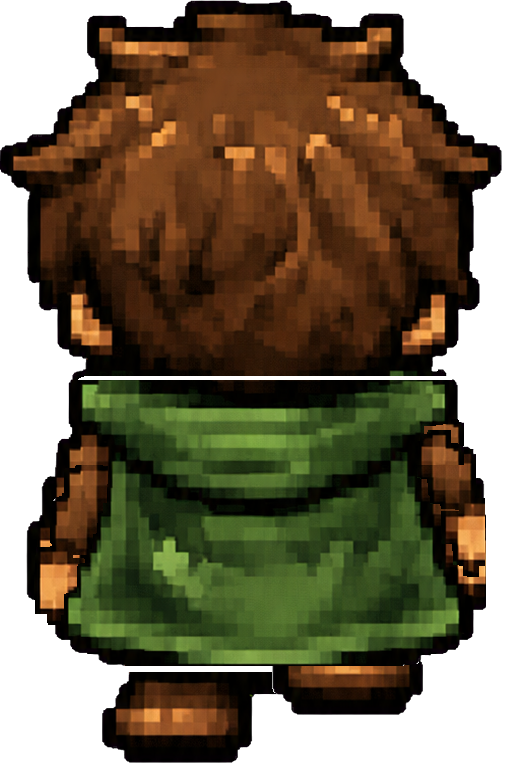
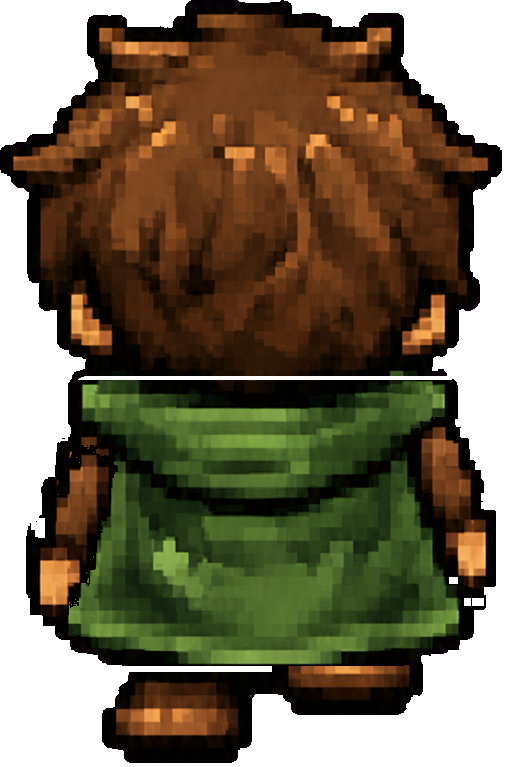
Repair walk-up sprite pixels

diff --git a/js/screens.js b/js/screens.js
@@ -126,7 +126,7 @@ function easeOutBounce(x) {
 // top, bounces to a stop with a little screen-shake + thud, a shine sweeps
 // across it, then the rest of the screen fades in.
 // build stamp — bump this to the deploy time (Arizona/Phoenix time) on each update
-const BUILD_STAMP = '7/25/2026 5:28pm (mst)';
+const BUILD_STAMP = '7/25/2026 5:38pm (mst)';
 
 const ScreenTitle = {
   FALL: 0.85, SHINE_DELAY: 0.12, SHINE_DUR: 0.6,

diff --git a/scripts/fix_player_walk_up.py b/scripts/fix_player_walk_up.py
@@ -2,7 +2,7 @@ from pathlib import Path
 from shutil import copy2
 from collections import deque
 
-from PIL import Image
+from PIL import Image, ImageFilter
 
 
 ROOT = Path(__file__).resolve().parents[1]
@@ -58,6 +58,122 @@ def replace_stationary_head(frame, idle, dx, dy):
     return result
 
 
+def arm_mask(image, box):
+    """Select arm/hand colors plus their dark outline, excluding green cape."""
+    x0, y0, x1, y1 = box
+    crop = image.crop(box)
+    seed = Image.new("L", crop.size)
+    seed_pixels = seed.load()
+    source = crop.load()
+    for y in range(crop.height):
+        for x in range(crop.width):
+            red, green, blue, alpha = source[x, y]
+            if (
+                alpha >= 32
+                and red >= 45
+                and red > green * 1.10
+                and red > blue * 1.14
+            ):
+                seed_pixels[x, y] = 255
+
+    nearby = seed.filter(ImageFilter.MaxFilter(21))
+    near_pixels = nearby.load()
+    mask = Image.new("L", crop.size)
+    mask_pixels = mask.load()
+    for y in range(crop.height):
+        for x in range(crop.width):
+            red, green, blue, alpha = source[x, y]
+            is_arm_or_outline = (
+                near_pixels[x, y]
+                and alpha > 0
+                and not (green > red * 1.18 and green > blue * 1.12)
+            )
+            if seed_pixels[x, y] or is_arm_or_outline:
+                mask_pixels[x, y] = alpha
+    return mask
+
+
+def replace_generated_arms(frame, idle, cape_dx, left_dy, right_dy):
+    """Use the clean idle arms, shifted vertically, instead of AI-smeared arms."""
+    result = frame.copy()
+    boxes = [(25, 395, 135, 640), (380, 395, 511, 640)]
+    shifts = [(cape_dx, left_dy), (cape_dx, right_dy)]
+
+    for box, (dx, dy) in zip(boxes, shifts):
+        old_mask = arm_mask(result, box)
+        old_pixels = old_mask.load()
+        result_pixels = result.load()
+        x0, y0, x1, y1 = box
+        for local_y in range(y1 - y0):
+            for local_x in range(x1 - x0):
+                if old_pixels[local_x, local_y]:
+                    result_pixels[x0 + local_x, y0 + local_y] = (0, 0, 0, 0)
+
+        clean_arm = idle.crop(box)
+        clean_mask = arm_mask(idle, box)
+        clean_arm.putalpha(clean_mask)
+
+        # Keep the shoulder attached to the cape while the forearm and hand
+        # swing. This avoids narrow transparent seams at the joint.
+        shoulder_mask = clean_mask.copy()
+        shoulder_pixels = shoulder_mask.load()
+        for local_y in range(shoulder_mask.height):
+            for local_x in range(shoulder_mask.width):
+                if local_y > 105:
+                    shoulder_pixels[local_x, local_y] = 0
+        shoulder = idle.crop(box)
+        shoulder.putalpha(shoulder_mask)
+        result.alpha_composite(shoulder, (x0 + cape_dx, y0 - 4))
+        result.alpha_composite(clean_arm, (x0 + dx, y0 + dy))
+
+    return result
+
+
+def close_tiny_arm_seams(image):
+    """Close only 1–3 px background leaks around animated arm joints."""
+    result = image.copy()
+    boxes = [(20, 390, 145, 650), (370, 390, 511, 650)]
+    for box in boxes:
+        x0, y0, x1, y1 = box
+        crop = result.crop(box)
+        alpha = crop.getchannel("A").point(lambda value: 255 if value >= 32 else 0)
+        closed = alpha.filter(ImageFilter.MaxFilter(7)).filter(
+            ImageFilter.MinFilter(7)
+        )
+        original_pixels = crop.load()
+        alpha_pixels = alpha.load()
+        closed_pixels = closed.load()
+        additions = []
+        for y in range(crop.height):
+            for x in range(crop.width):
+                if not alpha_pixels[x, y] and closed_pixels[x, y]:
+                    additions.append((x, y))
+
+        for x, y in additions:
+            nearest = None
+            for radius in range(1, 7):
+                candidates = []
+                for oy in range(-radius, radius + 1):
+                    for ox in range(-radius, radius + 1):
+                        nx, ny = x + ox, y + oy
+                        if (
+                            0 <= nx < crop.width
+                            and 0 <= ny < crop.height
+                            and alpha_pixels[nx, ny]
+                        ):
+                            candidates.append(original_pixels[nx, ny])
+                if candidates:
+                    nearest = min(
+                        candidates,
+                        key=lambda pixel: abs(pixel[0] - pixel[1]),
+                    )
+                    break
+            if nearest:
+                original_pixels[x, y] = nearest[:3] + (255,)
+        result.alpha_composite(crop, (x0, y0))
+    return result
+
+
 def repair_isolated_alpha_defects(image):
     """Fill only enclosed one-pixel alpha defects; preserve real outer edges."""
     result = image.copy()
@@ -93,6 +209,21 @@ def repair_isolated_alpha_defects(image):
         if not repairs:
             break
 
+    return result
+
+
+def harden_pixel_art_alpha(image):
+    """Remove blurry fractional-alpha pixels while preserving the silhouette."""
+    result = image.copy()
+    pixels = result.load()
+    for y in range(result.height):
+        for x in range(result.width):
+            red, green, blue, alpha = pixels[x, y]
+            pixels[x, y] = (
+                (red, green, blue, 255)
+                if alpha >= 32
+                else (0, 0, 0, 0)
+            )
     return result
 
 
@@ -190,23 +321,43 @@ def main():
     idle = Image.open(IDLE).convert("RGBA")
     frames = [
         idle.copy(),
-        replace_stationary_head(
-            Image.open(BACKUP / "frame_02.png").convert("RGBA"),
-            idle,
-            5,
-            -4,
+        close_tiny_arm_seams(
+            replace_generated_arms(
+                replace_stationary_head(
+                    Image.open(BACKUP / "frame_02.png").convert("RGBA"),
+                    idle,
+                    5,
+                    -4,
+                ),
+                idle,
+                5,
+                -14,
+                14,
+            ),
         ),
         idle.copy(),
-        replace_stationary_head(
-            Image.open(BACKUP / "frame_04.png").convert("RGBA"),
-            idle,
-            -5,
-            -4,
+        close_tiny_arm_seams(
+            replace_generated_arms(
+                replace_stationary_head(
+                    Image.open(BACKUP / "frame_04.png").convert("RGBA"),
+                    idle,
+                    -5,
+                    -4,
+                ),
+                idle,
+                -5,
+                14,
+                -14,
+            ),
         ),
     ]
     frames = [
-        repair_isolated_alpha_defects(
-            repair_enclosed_transparent_specks(frame)
+        harden_pixel_art_alpha(
+            repair_isolated_alpha_defects(
+                repair_enclosed_transparent_specks(
+                    harden_pixel_art_alpha(frame)
+                )
+            )
         )
         for frame in frames
     ]
